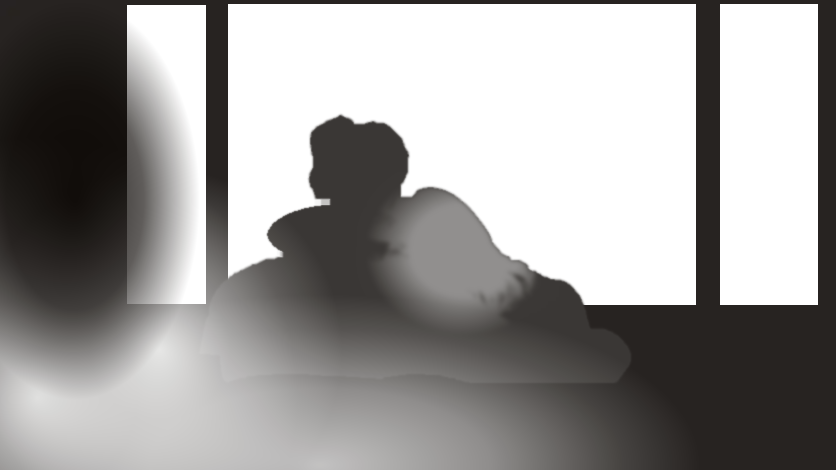
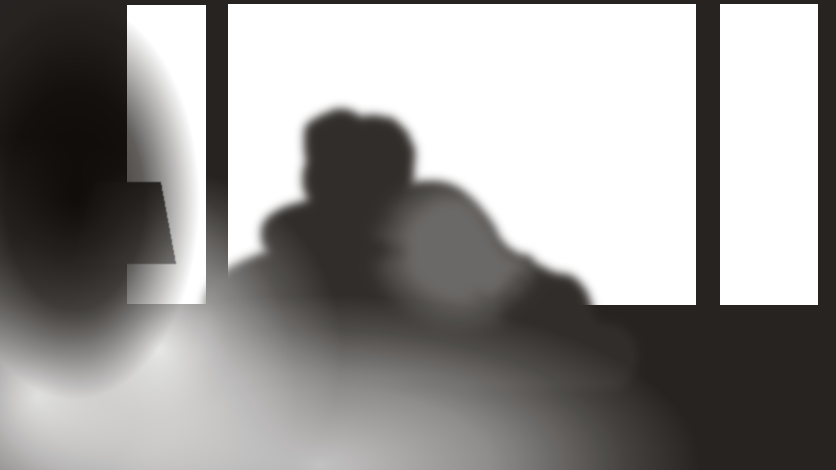
Khôi phục CSS bị xoá nhầm (hộp nhạc, âm lượng, màn chờ, chế độ nhẹ); khoá cuộn khi thư mở; bấm đèn lồng nhỏ để tắt/bật; bóng cảnh cuối liền mạch
Claude-Session: https://claude.ai/code/session_018LWP6QAxse55v6Pm2E99MN

Changed region(s): [[0.2488, 0.2085, 0.7153, 0.6851], [0.1244, 0.3872, 0.2177, 0.566], [0.2177, 0.6255, 0.2488, 0.6553]]

diff --git a/src/styles.css b/src/styles.css
@@ -672,6 +672,102 @@ html.lenis, html.lenis body { height: auto; }
 .xf-dots button:hover span, .xf-dots button:focus-visible span { opacity: 1; transform: translateY(-50%); }
 @media (max-width: 700px) { .xf-dots { gap: 16px; right: 6px; padding: 12px 5px; } .xf-dots button { width: 14px; height: 14px; } .xf-dots button span { display: none; } }
 .xf-dots button::before { content: ""; position: absolute; inset: -8px; }
+
+/* ===== khôi phục: khối này đã bị xoá nhầm khi sửa thanh chấm (hộp nhạc, âm lượng, màn chờ, chế độ nhẹ, gợn chạm...) ===== */
+@media (prefers-reduced-motion: reduce) { .xf-sticky::after { display: none; } }
+
+/* ===== Hộp nhạc: đóng / hé / mở và danh sách nhạc ===== */
+.mb-img { display: block; }
+.mb-fade { transition: opacity .75s ease; } .mb-fade.slow { transition: opacity 1s ease .1s; }
+.mb-dance { position: absolute; inset: 0; pointer-events: none; opacity: 0; transition: opacity .8s ease .35s; }
+.mb-dance.on { opacity: 1; }
+.eq { display: inline-flex; gap: 2px; align-items: flex-end; height: 11px; }
+.eq b { width: 2.5px; background: #3a1d06; border-radius: 1px; animation: eq 0.9s ease-in-out infinite; } .eq b:nth-child(2) { animation-delay: -.3s; } .eq b:nth-child(3) { animation-delay: -.6s; }
+@keyframes eq { 0%,100% { height: 3px } 50% { height: 11px } }
+@media (prefers-reduced-motion: reduce) { .eq b { animation: none; height: 8px; } }
+
+/* danh sách nhạc kiểu đồ cổ: viên đĩa than + tấm thẻ da nâu viền đồng khắc */
+.mb-pl { position: absolute; z-index: 6; left: max(22px, env(safe-area-inset-left, 0px)); top: max(22px, env(safe-area-inset-top, 0px)); width: min(292px, calc(100% - 96px)); font-family: var(--serif);
+  opacity: 0; transform: translateY(-10px); pointer-events: none; transition: opacity .6s ease .5s, transform .6s cubic-bezier(.2,.8,.2,1) .5s; }
+.mb-pl.on { opacity: var(--bt, 1); transform: none; pointer-events: auto; }
+.mb-pill { display: flex; align-items: center; gap: 4px; padding: 5px 6px; border-radius: 999px; color: #fff3d8;
+  background: linear-gradient(180deg, rgba(58,32,16,.94), rgba(30,15,7,.94)); border: 1px solid rgba(232,184,106,.55); box-shadow: 0 8px 26px rgba(0,0,0,.4), 0 0 0 3px rgba(20,9,3,.35), inset 0 1px 0 rgba(255,226,160,.18); }
+.mb-pill button { cursor: pointer; color: inherit; background: none; }
+.mb-pill button:disabled { cursor: default; }
+.mb-pill .pp { position: relative; flex: 0 0 40px; height: 40px; border-radius: 50%; display: grid; place-items: center; }
+.mb-pill .pp em { position: absolute; font-style: normal; font-size: .72rem; color: #fff1c7; text-shadow: 0 1px 3px rgba(0,0,0,.8); }
+.disc { display: block; width: 100%; height: 100%; border-radius: 50%; box-shadow: 0 0 0 1px rgba(0,0,0,.6), 0 2px 6px rgba(0,0,0,.5);
+  background: radial-gradient(circle, #c3302f 0 17%, #e6c47a 17% 19%, transparent 19%), radial-gradient(circle, transparent 0 24%, rgba(255,255,255,.07) 24.5% 25.5%, transparent 26% 40%, rgba(255,255,255,.06) 40.5% 41.5%, transparent 42% 58%, rgba(255,255,255,.06) 58.5% 59.5%, transparent 60%), conic-gradient(from 30deg, #16100c, #2b211a 25%, #16100c 50%, #2b211a 75%, #16100c); }
+.disc.spin { animation: disc 3.2s linear infinite; } @keyframes disc { to { transform: rotate(360deg) } }
+.mb-pill .np { flex: 1; min-width: 0; display: grid; grid-template-columns: 1fr auto; column-gap: 8px; align-items: center; text-align: left; padding: 2px 10px 2px 8px; border-radius: 999px; line-height: 1.15; }
+.mb-pill .np:hover:not(:disabled) { background: rgba(255,226,160,.1); }
+.mb-pill .np small { grid-column: 1; font-size: .72rem; letter-spacing: .16em; text-transform: uppercase; color: #e1bd76; }
+.mb-pill .np b { grid-column: 1; font-size: 1.04rem; font-weight: 600; font-style: italic; white-space: nowrap; overflow: hidden; text-overflow: ellipsis; }
+.mb-pill .np .chev { grid-column: 2; grid-row: 1 / span 2; color: #e1bd76; font-size: .9rem; }
+.mb-card { margin-top: 10px; padding: 18px 16px 14px; color: #f6e8c8; border-radius: 6px; position: relative; transform-origin: 50% 0; transform: scaleY(.92) translateY(-8px); opacity: 0; pointer-events: none; transition: opacity .35s, transform .45s cubic-bezier(.2,.8,.2,1); 
+  background: radial-gradient(120% 90% at 20% 0%, rgba(92,56,28,.55), transparent 60%), repeating-linear-gradient(90deg, rgba(255,226,160,.03) 0 2px, transparent 2px 5px), linear-gradient(180deg, #3b2214, #24130a);
+  border: 1px solid #b98c47; box-shadow: 0 18px 44px rgba(0,0,0,.5), inset 0 0 0 5px #2a170b, inset 0 0 0 6px rgba(232,184,106,.55), inset 0 0 22px rgba(0,0,0,.5); }
+.mb-pl.expanded .mb-card { opacity: 1; transform: none; pointer-events: auto; }
+.mb-card h3 { margin: 0 0 10px; display: flex; align-items: center; justify-content: center; gap: 10px; font-size: 1.22rem; font-style: italic; font-weight: 600; color: #ffe6ae; }
+.mb-card h3 span { color: #c99a52; font-size: 1rem; font-style: normal; }
+.mb-card ol { list-style: none; margin: 0; padding: 0; display: grid; }
+.mb-card li { border-top: 1px dashed rgba(232,184,106,.28); } .mb-card li:first-child { border-top: 1px solid rgba(232,184,106,.45); }
+.mb-card li button { width: 100%; display: flex; align-items: center; gap: 12px; padding: 8px 6px; text-align: left; cursor: pointer; color: inherit; background: transparent; transition: background .25s; }
+.mb-card li button:hover:not(:disabled) { background: rgba(255,226,160,.1); }
+.mb-card li button:disabled { cursor: default; }
+.mb-card .n { flex: 0 0 28px; height: 28px; display: grid; place-items: center; border-radius: 50%; font-size: .74rem; font-weight: 700; letter-spacing: .02em; color: #e6c47a; border: 1px solid rgba(232,184,106,.7); }
+.mb-card li.cur .n { color: #3a1d06; background: linear-gradient(180deg, #ffe7ae, #e8b45a); border-color: #ffe7ae; }
+.mb-card .t { display: grid; line-height: 1.2; min-width: 0; } .mb-card .t b { font-size: 1.04rem; font-weight: 600; color: #fff3d8; } .mb-card .t small { font-size: .8rem; font-style: italic; color: #d6b97f; }
+.mb-card li.soon .t b { opacity: .6; } .mb-card li.soon .t small { opacity: .6; } .mb-card li.soon .n { opacity: .5; }
+.mb-card .bar { height: 5px; margin: 14px 6px 8px; border-radius: 3px; background: rgba(255,226,160,.18); cursor: pointer; position: relative; }
+.mb-card .bar i { position: absolute; left: 0; top: 0; bottom: 0; border-radius: 3px; background: linear-gradient(90deg, #c99a52, #fff0c0); }
+.mb-card .bar u { position: absolute; top: 50%; width: 13px; height: 13px; margin: -6.5px 0 0 -6.5px; border-radius: 50%; background: radial-gradient(circle at 35% 30%, #fff8dc, #d9a64f 70%); box-shadow: 0 1px 4px rgba(0,0,0,.6); text-decoration: none; }
+.mb-card .ctl { display: flex; align-items: center; justify-content: space-between; gap: 6px; font-size: .84rem; color: #d6b97f; }
+.mb-card .ctl button { cursor: pointer; color: #f0cf8a; font-size: .9rem; padding: 4px 8px; border-radius: 8px; background: none; } .mb-card .ctl button:hover:not(:disabled) { background: rgba(255,226,160,.12); } .mb-card .ctl button:disabled { opacity: .4; cursor: default; }
+.mb-card .ctl .main { padding: 5px 20px; border-radius: 999px; font: 700 .84rem var(--serif); letter-spacing: .12em; color: #3a1d06; background: linear-gradient(180deg, #ffe7ae, #e8b45a); }
+.mb-card .ctl .main:hover:not(:disabled) { background: linear-gradient(180deg, #fff0c4, #f0bd66); }
+@media (prefers-reduced-motion: reduce) { .disc.spin { animation: none; } }
+
+/* ===== Nút loa và bảng âm lượng ===== */
+.snd { position: absolute; z-index: 12; }
+.snd-tr { top: max(16px, env(safe-area-inset-top, 0px)); right: max(16px, env(safe-area-inset-right, 0px)); }
+.snd-door { top: max(16px, env(safe-area-inset-top)); left: max(14px, env(safe-area-inset-left)); }
+.snd .tr-sound, .snd .door-sound { position: static; }
+.snd-panel { position: absolute; top: 54px; width: 252px; padding: 14px 14px 12px; border-radius: 14px; font-family: var(--serif); color: #f6e8c8;
+  background: linear-gradient(180deg, rgba(52,29,14,.96), rgba(28,14,7,.96)); border: 1px solid rgba(232,184,106,.5); box-shadow: 0 16px 40px rgba(0,0,0,.5), inset 0 0 0 4px rgba(20,9,3,.4); animation: snd-in .25s ease both; }
+.snd-tr .snd-panel { right: 0; } .snd-door .snd-panel { left: 0; }
+@keyframes snd-in { from { opacity: 0; transform: translateY(-6px) } }
+.snd-main { width: 100%; display: flex; align-items: center; justify-content: space-between; padding: 7px 10px; margin-bottom: 8px; border-radius: 10px; cursor: pointer; color: #fff3d8; font: 600 1rem var(--serif); background: rgba(255,226,160,.08); border: 1px solid rgba(232,184,106,.3); }
+.snd-main i { position: relative; width: 34px; height: 18px; border-radius: 9px; background: rgba(0,0,0,.5); border: 1px solid rgba(232,184,106,.5); transition: background .25s; }
+.snd-main i::after { content: ""; position: absolute; top: 2px; left: 2px; width: 12px; height: 12px; border-radius: 50%; background: #d9b878; transition: transform .25s, background .25s; }
+.snd-main.on i { background: rgba(240,195,110,.35); } .snd-main.on i::after { transform: translateX(16px); background: #fff0c0; }
+.snd-row { display: grid; gap: 4px; padding: 6px 2px; }
+.snd-row span { display: flex; align-items: baseline; justify-content: space-between; gap: 8px; } .snd-row b { font-size: 1.02rem; color: #ffe6ae; font-weight: 600; } .snd-row small { font-size: .76rem; font-style: italic; color: #cdb07a; }
+.snd-row input { -webkit-appearance: none; appearance: none; width: 100%; height: 22px; background: transparent; cursor: pointer; }
+.snd-row input::-webkit-slider-runnable-track { height: 4px; border-radius: 2px; background: linear-gradient(90deg, #e8b45a var(--v, 100%), rgba(255,226,160,.2) var(--v, 100%)); }
+.snd-row input::-moz-range-track { height: 4px; border-radius: 2px; background: rgba(255,226,160,.2); } .snd-row input::-moz-range-progress { height: 4px; border-radius: 2px; background: #e8b45a; }
+.snd-row input::-webkit-slider-thumb { -webkit-appearance: none; width: 16px; height: 16px; margin-top: -6px; border-radius: 50%; background: radial-gradient(circle at 35% 30%, #fff8dc, #d9a64f 70%); box-shadow: 0 1px 4px rgba(0,0,0,.6); }
+.snd-row input::-moz-range-thumb { width: 16px; height: 16px; border: 0; border-radius: 50%; background: #e6b660; }
+
+/* ===== Màn chờ, chế độ nhẹ, gợn chạm, tinh chỉnh điện thoại ===== */
+.boot { position: fixed; inset: 0; z-index: 200; display: grid; place-content: center; justify-items: center; gap: 14px; color: #f3d596; font-family: var(--serif); background: radial-gradient(ellipse at 50% 40%, #1d140d 0%, #0b0705 70%); transition: opacity .8s ease; }
+.boot.out { opacity: 0; pointer-events: none; }
+.boot p { margin: 0; font-size: 1.25rem; font-style: italic; letter-spacing: .04em; animation: boot-p 1.8s ease-in-out infinite; }
+.boot-flake { animation: boot-spin 5s linear infinite; filter: drop-shadow(0 0 10px rgba(243,213,150,.5)); }
+@keyframes boot-spin { to { transform: rotate(360deg) } } @keyframes boot-p { 50% { opacity: .55 } }
+@media (prefers-reduced-motion: reduce) { .boot-flake, .boot p { animation: none; } }
+/* cảnh không đang xem: dừng mọi hoạt ảnh CSS trong đó */
+.idle, .idle *, .idle *::before, .idle *::after { animation-play-state: paused !important; }
+/* chế độ nhẹ cho máy yếu */
+.lite .xf-sticky::after, .lite .tr-dust, .lite .xf-fx, .lite .tr-embers { display: none; }
+.lite .mb-bokeh i::after, .lite .cat-bulbs i::after, .lite .tr-tw::after, .lite .tr-lamp::after, .lite .mb-lantern { display: none; }
+.lite .xf-gold { filter: none; }
+/* gợn chạm vàng */
+.rip { position: fixed; z-index: 300; width: 14px; height: 14px; margin: -7px 0 0 -7px; border-radius: 50%; pointer-events: none; border: 2px solid rgba(255,226,160,.9); box-shadow: 0 0 14px rgba(255,200,110,.7); animation: rip .55s ease-out forwards; }
+@keyframes rip { to { transform: scale(5); opacity: 0; } }
+/* điện thoại: vùng chạm rộng hơn, không phóng to khi chạm đúp, không kéo dãn quá mép */
+html { overscroll-behavior: none; }
+button, a, [role="button"] { touch-action: manipulation; -webkit-tap-highlight-color: transparent; }
 @media (pointer: coarse) { .xf-dots { gap: 18px; } .scroll-cue { width: 46px; height: 46px; } .tr-sound, .tr-lights, .door-sound { width: 46px; height: 46px; } }
 @media (max-aspect-ratio: 1/1) and (max-height: 720px) { .tree-scene.tall .sec-desc ~ .sec-desc { display: none; } }
 
@@ -802,3 +898,6 @@ html.has-cursor, html.has-cursor * { cursor: none !important; }
 @keyframes cur-ping { to { transform: scale(5); opacity: 0; } }
 
 .xf-flake { position: absolute; inset: 0; width: 100%; height: 100%; z-index: 12; pointer-events: none; }
+
+html.modal-open, html.modal-open body { overflow: hidden !important; overscroll-behavior: none; }
+.tr-modal { overscroll-behavior: contain; }

diff --git a/src/scenes/snowLayout.ts b/src/scenes/snowLayout.ts
@@ -26,8 +26,8 @@ export const SNOW = {
   focus: { x1: 380, x2: 1260, y1: 120, y2: 900 },
   /** Hai ngọn nến (x, y, độ mạnh): khi tắt đèn, phòng tối đi và chỉ còn ánh các ngọn lửa này. */
   flames: [[75, 795, 1], [320, 700, 0.7]] as [number, number, number][],
-  /** Chiếc đèn bàn bên trái (chao đèn kem): bấm vào để tắt hoặc bật đèn. */
-  lamp: [[190, 365], [320, 365], [350, 527], [262, 530], [262, 600], [270, 650], [265, 700], [240, 760], [222, 700], [232, 650], [232, 530], [145, 527]] as [number, number][],
+  /** Chiếc đèn lồng nhỏ có nến ở góc dưới trái: bấm vào để tắt hoặc bật đèn. */
+  lamp: [[40, 650], [110, 650], [140, 700], [140, 865], [8, 865], [8, 700]] as [number, number][],
   poses: [
     { src: base, hide: hide1 },
     { src: point, hide: hide2 },

diff --git a/src/scenes/Letter.tsx b/src/scenes/Letter.tsx
@@ -147,6 +147,8 @@ export function ModalView({ modal, onClose: finish }: { modal: NonNullable<Modal
   const [closing, setClosing] = useState(false)
   const onClose = () => { if (closing) return; setClosing(true); sfx.rustle(0.45, 0.4); setTimeout(finish, 340) }
   useEffect(() => { sfx.rustle(0.6, 0.5) }, [])
+  // khoá cuộn trang khi thư đang mở: nếu không, cuộn chạm mép thư sẽ kéo trang phía sau xuống chuyển cảnh và hiện cả hai cùng lúc
+  useEffect(() => { document.documentElement.classList.add('modal-open'); return () => document.documentElement.classList.remove('modal-open') }, [])
   useEffect(() => {
     const id = setInterval(() => tick((n) => n + 1), 1000)
     const key = (e: KeyboardEvent) => { if (e.key === 'Escape') onClose() }

diff --git a/tools/snow/bake-light.py b/tools/snow/bake-light.py
@@ -37,15 +37,17 @@ for n in ['1','2','3']:
     lampm=cv2.GaussianBlur(lampm,(0,0),.7)
     hide=np.zeros((H,W,4),np.uint8); hide[...,3]=np.clip((1-np.maximum(sil,lampm))*255,0,255)
     cv2.imwrite(A+f'snow-hide-{n}.png',hide,[cv2.IMWRITE_PNG_COMPRESSION,9])
-    sil=cv2.erode(sil,np.ones((5,5),np.uint8))  # mặt nạ cắt nở ra vài px quanh người: thu về đúng mép thật, không còn quầng tối quanh đầu
+    # bóng liền mạch, không có đường cắt: hình cắt nở ra vài px (phủ cả sợi tóc lòa xòa quanh đầu) rồi nhoè mạnh để mép tan vào nền
+    sil=cv2.GaussianBlur(cv2.dilate(sil,np.ones((9,9),np.uint8)),(0,0),4.5)
+    sil=np.maximum(sil,lampm)  # chao đèn bàn đứng trước ô kính trái cũng tối như phần còn lại của phòng
     mask=sil+(1-sil)*notpane
     # phòng tối .88; hai người gần như chìm hẳn vào bóng (.975), chỉ còn đường viền lạnh của ánh tuyết ngoài cửa sổ
     # tóc cô gái: những điểm tối trong một vùng elip quanh đầu và tóc (toạ độ khung ảnh gốc) được nâng sáng để còn thấy rõ sợi tóc và chóp đỏ
     base=cv2.imread(A+{'1':'snow-land.webp','2':'snow-land-point.webp','3':'snow-land-pat.webp'}[n])
     v=cv2.resize(cv2.cvtColor(base,cv2.COLOR_BGR2HSV)[...,2],(W,H),interpolation=cv2.INTER_AREA).astype(np.float32)/255
     ell=np.clip(1-np.sqrt(((X-930)/200)**2+((Y-500)/170)**2),0,1); ell=np.clip(ell*2.2,0,1)
-    hl=cv2.GaussianBlur(ell*np.clip((.55-v)*5,0,1)*sil,(0,0),2.2)
-    D=F*(.88*(1-sil)*notpane+(.8*(1-hl)+.45*hl)*sil)
+    hl=cv2.GaussianBlur(ell*np.clip((.55-v)*4,0,1)*sil,(0,0),6)
+    D=F*(.88*(1-sil)*notpane+(.84*(1-hl)+.6*hl)*sil)
     D=1-(1-D)*(1-patch)
     dark=np.zeros((H,W,4),np.uint8); dark[...,0]=9; dark[...,1]=4; dark[...,2]=2; dark[...,3]=np.clip(D*255,0,255)
     Image.fromarray(dark,'RGBA').save(A+f'snow-dark-{n}.webp',quality=80,method=6)
@@ -58,13 +60,12 @@ for n in ['1','2','3']:
     warm_c=np.array([255,140,60],np.float32)
     # lớp trên người: cool (dưới) -> ellipse -> nến
     c,a=cool_c,cool_a*.45  # trên người chỉ còn ánh lạnh rất nhẹ từ cửa sổ
-    c,a=over(c,a,np.broadcast_to(np.array([255,150,70],np.float32),(H,W,3)).copy(),hl*.22)  # ánh nến ấm rất nhẹ trên tóc cô gái
     # viền sáng lạnh: ánh tuyết ngoài cửa sổ chiếu vào mặt trước hai người, nên nhìn từ phía sau chỉ thấy một đường sáng mảnh ôm theo đỉnh đầu, tóc và vai (mạnh ở phía trên, mất dần xuống thân)
     e2=cv2.erode(sil,np.ones((5,5),np.uint8)); band=cv2.GaussianBlur(np.clip(sil-e2,0,1),(0,0),.8)  # một đường mảnh ngay trong mép thật
     rim_a=np.clip(band*np.interp(Y,[160,420,640],[.55,.3,0]),0,1)
     rim_c=np.broadcast_to(np.array([150,190,245],np.float32),(H,W,3)).copy()
-    c,a=over(c,a,rim_c,rim_a)
-    fo=np.interp(Y,[600,700],[1,0]); a1=a*np.maximum(sil*fo,hl); c1=c
+    # (đã bỏ viền sáng quanh người: nó tạo quầng lạ ở mép)
+    fo=np.interp(Y,[600,700],[1,0]); a1=a*sil*fo; c1=c
     # lớp trên chăn+bàn (toàn chiều ngang): ellipse + nến
     c,a=ell_c,ell_a
     for ca in cand: c,a=over(c,a,np.broadcast_to(warm_c,(H,W,3)).copy(),ca)

diff --git a/HANDOFF.md b/HANDOFF.md
@@ -185,3 +185,8 @@ npx tsc -b        # kiểm tra kiểu
 - `snow-land.webp` (ngồi sát, ảnh nền), `snow-land-point.webp` (anh chỉ tay lên trời), `snow-land-pat.webp` (anh xoa đầu cô gái), khung 1672x941. Ô kính mới: `[254,10,158,598] [457,8,936,602] [1440,8,196,602]`. Hai ngọn nến (đèn lồng, quả cầu tuyết), đèn bàn chao kem bên trái (`SNOW.lamp`). `tools/snow/bake-light.py` đã chỉnh cho 3 dáng; `tools/snow/cut-1..3.png` là hình cắt hai người (grabCut + elip lấp khăn).
 - Lịch ngẫu nhiên (`SnowWatch.tsx`): 50% chỉ tay + sao băng, 28% xoa đầu (không sao băng), còn lại chỉ có sao băng.
 - Chưa có ảnh dọc cho điện thoại; ảnh 4K chưa dùng (đang dùng bản 1672x941 Long gửi).
+
+### Sửa lỗi lượt này
+- **Lỗi nghiêm trọng do chính em gây ra (commit 49db655):** khi viết lại CSS thanh chấm, đoạn thay thế đã xoá nhầm ~100 dòng CSS (hộp nhạc: ẩn vũ công khi chưa mở và trình phát nhạc; bảng âm lượng; màn chờ; chế độ nhẹ `.lite`; tạm dừng hoạt ảnh cảnh không hiện `.idle`; gợn chạm). Đã khôi phục từ lịch sử git. Bài học: khi thay một đoạn CSS bằng script, kiểm `git diff --stat` xem số dòng bị xoá có đúng không.
+- Khoá cuộn trang khi thư đang mở (`html.modal-open`), để cuộn không kéo trang phía sau xuống chuyển cảnh trong lúc thư còn hiện.
+- Cảnh ngắm tuyết: bấm chiếc đèn lồng nhỏ có nến ở góc dưới trái để tắt/bật (`SNOW.lamp`). Bóng khi tắt đèn làm lại liền mạch: hình cắt nở ra và nhoè mạnh (không còn đường cắt cứng), bỏ viền sáng quanh người, chao đèn bàn tối như phòng.
